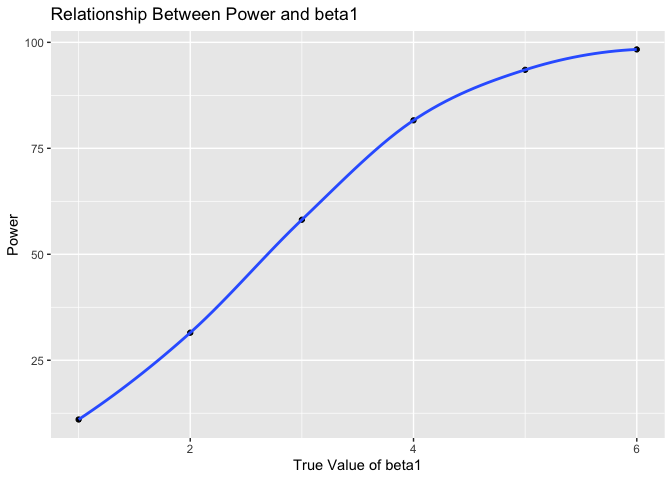
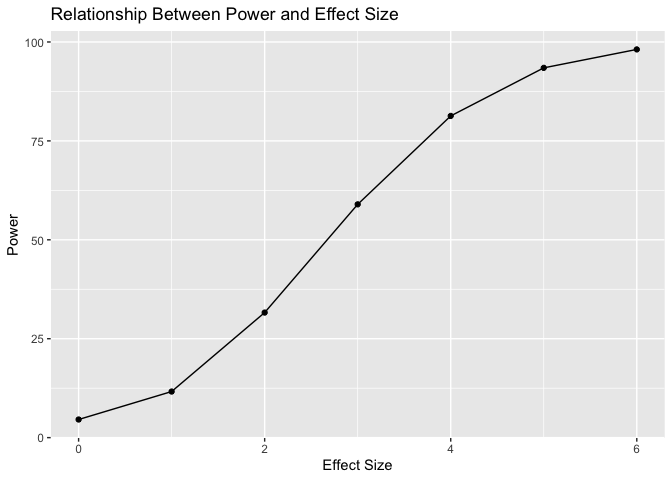
final commits (added 3rd plot) and text

diff --git a/p8105_hw5_blm2156.md b/p8105_hw5_blm2156.md
@@ -8,14 +8,14 @@ Britney Mazzetta
 library(tidyverse)
 ```
 
-    ## ── Attaching packages ──────────────────────────────────── tidyverse 1.2.1 ──
+    ## ── Attaching packages ─────── tidyverse 1.2.1 ──
 
     ## ✔ ggplot2 3.2.1     ✔ purrr   0.3.2
     ## ✔ tibble  2.1.3     ✔ dplyr   0.8.3
     ## ✔ tidyr   1.0.0     ✔ stringr 1.4.0
     ## ✔ readr   1.3.1     ✔ forcats 0.4.0
 
-    ## ── Conflicts ─────────────────────────────────────── tidyverse_conflicts() ──
+    ## ── Conflicts ────────── tidyverse_conflicts() ──
     ## ✖ dplyr::filter() masks stats::filter()
     ## ✖ dplyr::lag()    masks stats::lag()
 
@@ -337,14 +337,21 @@ p2_spaghetti = p2_data %>%
   geom_point() + 
   geom_line() +
   labs(
-    title = "Activity over course of day",
+    title = "Observations on each subject over time",
     x = "Week Number",
     y = "Value")
 p2_spaghetti
 ```
 
-![](p8105_hw5_blm2156_files/figure-gfm/unnamed-chunk-3-1.png)<!-- --> \#
-Problem 3
+![](p8105_hw5_blm2156_files/figure-gfm/unnamed-chunk-3-1.png)<!-- -->
+
+The values observed in the experimental arm are higher than the values
+observed in the control arm. As weeks increase, the values tend to
+increase in the experimental arm, while the values in the control arm
+appear to remain relatively constant. With time, the difference between
+the experimental and control group appears to increase.
+
+# Problem 3
 
 ``` r
 set.seed(1)
@@ -373,7 +380,7 @@ prob3_final = rerun(10000, sim_regression(beta1 = 0)) %>%
 
 ``` r
 prob3_final2 = 
-  tibble(beta1_new = c(1,2,3,4,5,6)) %>%
+  tibble(beta1_new = c(0,1,2,3,4,5,6)) %>%
   mutate(
     output_lists = map(.x = beta1_new, ~rerun(10000, sim_regression(beta1 = .x))),
     estimate_dfs = map(output_lists, bind_rows)) %>%
@@ -385,45 +392,37 @@ prob3_final2 =
 
 ``` r
 p3_plot1 = prob3_final2 %>%
-  mutate(reject = ifelse(p_value <= 0.05, "Not Significant", "Significant")) %>%
+  mutate(reject = ifelse(p_value < 0.05, "Significant", "Not Significant")) %>%
   group_by(beta1_new, reject) %>%
   summarize(rejection_count = n()) %>%
-  filter(reject == "Not Significant") %>%
+  filter(reject == "Significant") %>%
   mutate(rejection_rate = rejection_count/100) %>%
 ggplot(aes(x = beta1_new, y = rejection_rate)) + 
     geom_point() +
-    geom_smooth() + 
+    geom_line() + 
     labs(
-    title = "Relationship Between Power and beta1",
-    x = "True Value of beta1",
+    title = "Relationship Between Power and Effect Size",
+    x = "Effect Size",
     y = "Power")
 p3_plot1
 ```
 
-    ## `geom_smooth()` using method = 'loess' and formula 'y ~ x'
-
-    ## Warning in simpleLoess(y, x, w, span, degree = degree, parametric =
-    ## parametric, : Chernobyl! trL>n 6
-    
-    ## Warning in simpleLoess(y, x, w, span, degree = degree, parametric =
-    ## parametric, : Chernobyl! trL>n 6
-
-    ## Warning in sqrt(sum.squares/one.delta): NaNs produced
-
-    ## Warning in stats::qt(level/2 + 0.5, pred$df): NaNs produced
-
 ![](p8105_hw5_blm2156_files/figure-gfm/unnamed-chunk-7-1.png)<!-- -->
+
+Based on the plot, as the effect size increases (true value of Beta 1),
+power tends to increase before level off and slowing its increase around
+power = 80+.
 
 ## Plot 2
 
 ``` r
 p3_plot2 = prob3_final2 %>%
-  mutate(reject = ifelse(p_value <= 0.05, "Not Significant", "Significant")) %>%
+  mutate(reject = ifelse(p_value < 0.05, "Significant", "Not Significant")) %>%
   group_by(beta1_new) %>%
   summarize(mean_b1= mean(beta1_hat)) %>%
 ggplot(aes(x = beta1_new, y =mean_b1)) + 
     geom_point() +
-    geom_smooth() + 
+    geom_line() + 
     labs(
     title = "Relationship Between True Value of Beta1 and Mean estimate of Beta 1",
     x = "True Value of beta1",
@@ -431,16 +430,30 @@ ggplot(aes(x = beta1_new, y =mean_b1)) +
 p3_plot2
 ```
 
-    ## `geom_smooth()` using method = 'loess' and formula 'y ~ x'
-
-    ## Warning in simpleLoess(y, x, w, span, degree = degree, parametric =
-    ## parametric, : Chernobyl! trL>n 6
-    
-    ## Warning in simpleLoess(y, x, w, span, degree = degree, parametric =
-    ## parametric, : Chernobyl! trL>n 6
-
-    ## Warning in sqrt(sum.squares/one.delta): NaNs produced
-
-    ## Warning in stats::qt(level/2 + 0.5, pred$df): NaNs produced
-
 ![](p8105_hw5_blm2156_files/figure-gfm/unnamed-chunk-8-1.png)<!-- -->
+
+## Plot 3
+
+``` r
+p3_plot3 = prob3_final2 %>%
+  mutate(reject = ifelse(p_value < 0.05, "Significant", "Not Significant")) %>%
+  filter(reject == "Significant") %>%
+  group_by(beta1_new) %>%
+  summarize(mean_b1= mean(beta1_hat)) %>%
+ggplot(aes(x = beta1_new, y =mean_b1)) + 
+    geom_point() +
+    geom_line() + 
+    labs(
+    title = "Relationship Between True Value of Beta1 and Mean estimate of Beta 1 only in samples for which the null was rejected",
+    x = "True Value of beta1",
+    y = "Mean estimate of Beta1 only in samples for which the null was rejected")
+p3_plot3
+```
+
+![](p8105_hw5_blm2156_files/figure-gfm/unnamed-chunk-9-1.png)<!-- -->
+
+The sample average of Beta1 across tests for which the null is rejected
+is larger than the true value of Beta1. However, there still appears to
+be a somewhat linear relationship. Between effect size values of 0 and
+4, the mean estimate of Beta1 is particularly overestimated when we are
+only considering values in which the null was rejected.
